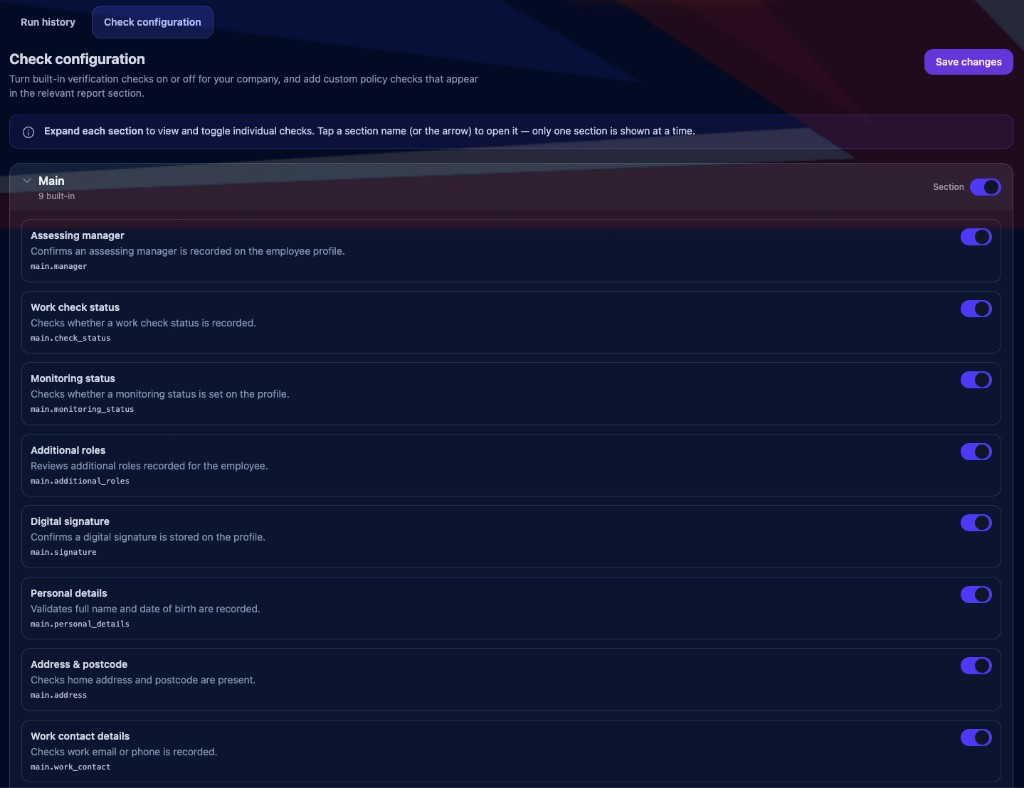
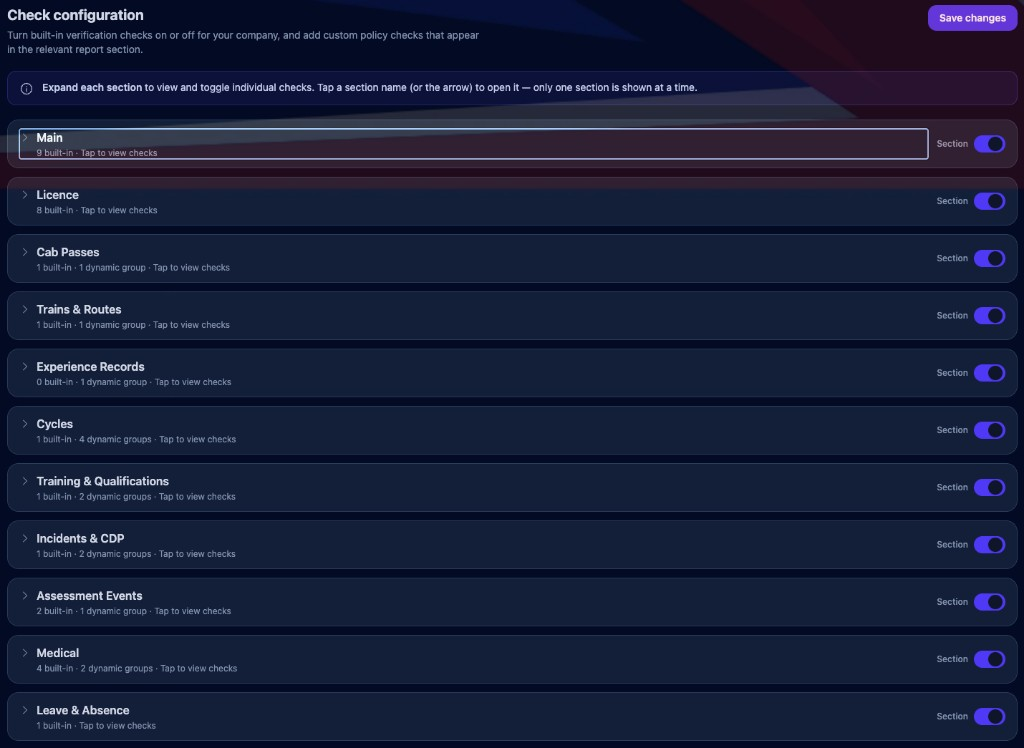
Update QA check configuration screenshot to the latest dark mode asset.
Replace CheckConfigVerification.png at native resolution and keep the full-width gallery rendering sharp.

diff --git a/products/qa-verifications.html b/products/qa-verifications.html
@@ -11,8 +11,8 @@
   <link rel="preconnect" href="https://fonts.googleapis.com" />
   <link rel="preconnect" href="https://fonts.gstatic.com" crossorigin />
   <link href="https://fonts.googleapis.com/css2?family=Outfit:wght@400;500;600;700&family=JetBrains+Mono:wght@500&display=swap" rel="stylesheet" />
-  <link rel="stylesheet" href="../css/style.css?v=129" />
-  <link rel="stylesheet" href="../css/pages.css?v=129" />
+  <link rel="stylesheet" href="../css/style.css?v=131" />
+  <link rel="stylesheet" href="../css/pages.css?v=131" />
   <style>
     /* Critical: keep under-dev banner visible even if stylesheet is cached */
     .site-chrome { position: fixed; top: 0; left: 0; right: 0; z-index: 200; }
@@ -250,12 +250,12 @@
                   <span class="browser-mockup__url" data-gallery-url>cms.railintel.co.uk/qa-verifications</span>
                 </div>
                 <div class="browser-mockup__content">
-                  <img src="../images/product/qa-verifications.png?v=129" alt="QA Verifications run history with overall compliance rate and a section breakdown by outcome" width="1024" height="750" data-gallery-main loading="eager" decoding="async" fetchpriority="high" />
+                  <img src="../images/product/qa-verifications.png?v=131" alt="QA Verifications run history with overall compliance rate and a section breakdown by outcome" width="1024" height="750" data-gallery-main loading="eager" decoding="async" fetchpriority="high" />
                 </div>
               </div>
               <div class="gallery-tabs" role="tablist" aria-label="QA Verification screens">
-                <button type="button" class="gallery-tab is-active" role="tab" aria-selected="true" data-src="../images/product/qa-verifications.png?v=129" data-alt="QA Verifications run history with overall compliance rate and a section breakdown by outcome" data-url="cms.railintel.co.uk/qa-verifications" data-width="1024" data-height="750">Run history</button>
-                <button type="button" class="gallery-tab" role="tab" aria-selected="false" data-src="../images/screens/verification/CheckConfigVerification.png?v=129" data-alt="Check configuration controlling which sections are examined and how each is scored" data-url="cms.railintel.co.uk/qa-verifications/settings" data-width="1024" data-height="788">Check configuration</button>
+                <button type="button" class="gallery-tab is-active" role="tab" aria-selected="true" data-src="../images/product/qa-verifications.png?v=131" data-alt="QA Verifications run history with overall compliance rate and a section breakdown by outcome" data-url="cms.railintel.co.uk/qa-verifications" data-width="1024" data-height="750">Run history</button>
+                <button type="button" class="gallery-tab" role="tab" aria-selected="false" data-src="../images/screens/verification/CheckConfigVerification.png?v=131" data-alt="Check configuration controlling which sections are examined and how each is scored" data-url="cms.railintel.co.uk/qa-verifications/settings" data-width="1024" data-height="748">Check configuration</button>
               </div>
             </div>
           </div>
@@ -307,7 +307,7 @@
     </div>
   </footer>
 
-  <script src="../js/site.js?v=129"></script>
-  <script src="../js/main.js?v=129"></script>
+  <script src="../js/site.js?v=131"></script>
+  <script src="../js/main.js?v=131"></script>
 </body>
 </html>

diff --git a/index.html b/index.html
@@ -5,15 +5,15 @@
   <meta name="viewport" content="width=device-width, initial-scale=1.0" />
   <title>Rail Intel - Rail Compliance</title>
   <meta name="description" content="Rail Intel is competency management for rail. Track cycles, medicals, licences and assessments so expired skills never reach the railway." />
-  <!-- site-asset-version:129 -->
+  <!-- site-asset-version:131 -->
   <link rel="icon" href="images/favicon-32.png" type="image/png" sizes="32x32" />
   <link rel="icon" href="images/favicon-16.png" type="image/png" sizes="16x16" />
   <link rel="apple-touch-icon" href="images/apple-touch-icon.png" />
   <link rel="preconnect" href="https://fonts.googleapis.com" />
   <link rel="preconnect" href="https://fonts.gstatic.com" crossorigin />
   <link href="https://fonts.googleapis.com/css2?family=Outfit:wght@400;500;600;700&family=JetBrains+Mono:wght@500&display=swap" rel="stylesheet" />
-  <link rel="stylesheet" href="css/style.css?v=129" />
-  <link rel="stylesheet" href="css/pages.css?v=129" />
+  <link rel="stylesheet" href="css/style.css?v=131" />
+  <link rel="stylesheet" href="css/pages.css?v=131" />
   <style>
     /* Critical: keep under-dev banner visible even if stylesheet is cached */
     .site-chrome { position: fixed; top: 0; left: 0; right: 0; z-index: 200; }
@@ -769,7 +769,7 @@
     </div>
   </footer>
 
-  <script src="js/site.js?v=129"></script>
+  <script src="js/site.js?v=131"></script>
   <script src="js/main.js?v=92"></script>
 </body>
 </html>

diff --git a/css/style.css b/css/style.css
@@ -1694,6 +1694,9 @@ body::before {
 .verify--module-page .product-gallery--full .browser-mockup__content img {
   width: 100%;
   height: auto;
+  image-rendering: auto;
+  -webkit-backface-visibility: hidden;
+  backface-visibility: hidden;
 }
 
 .verify__copy h3 {
